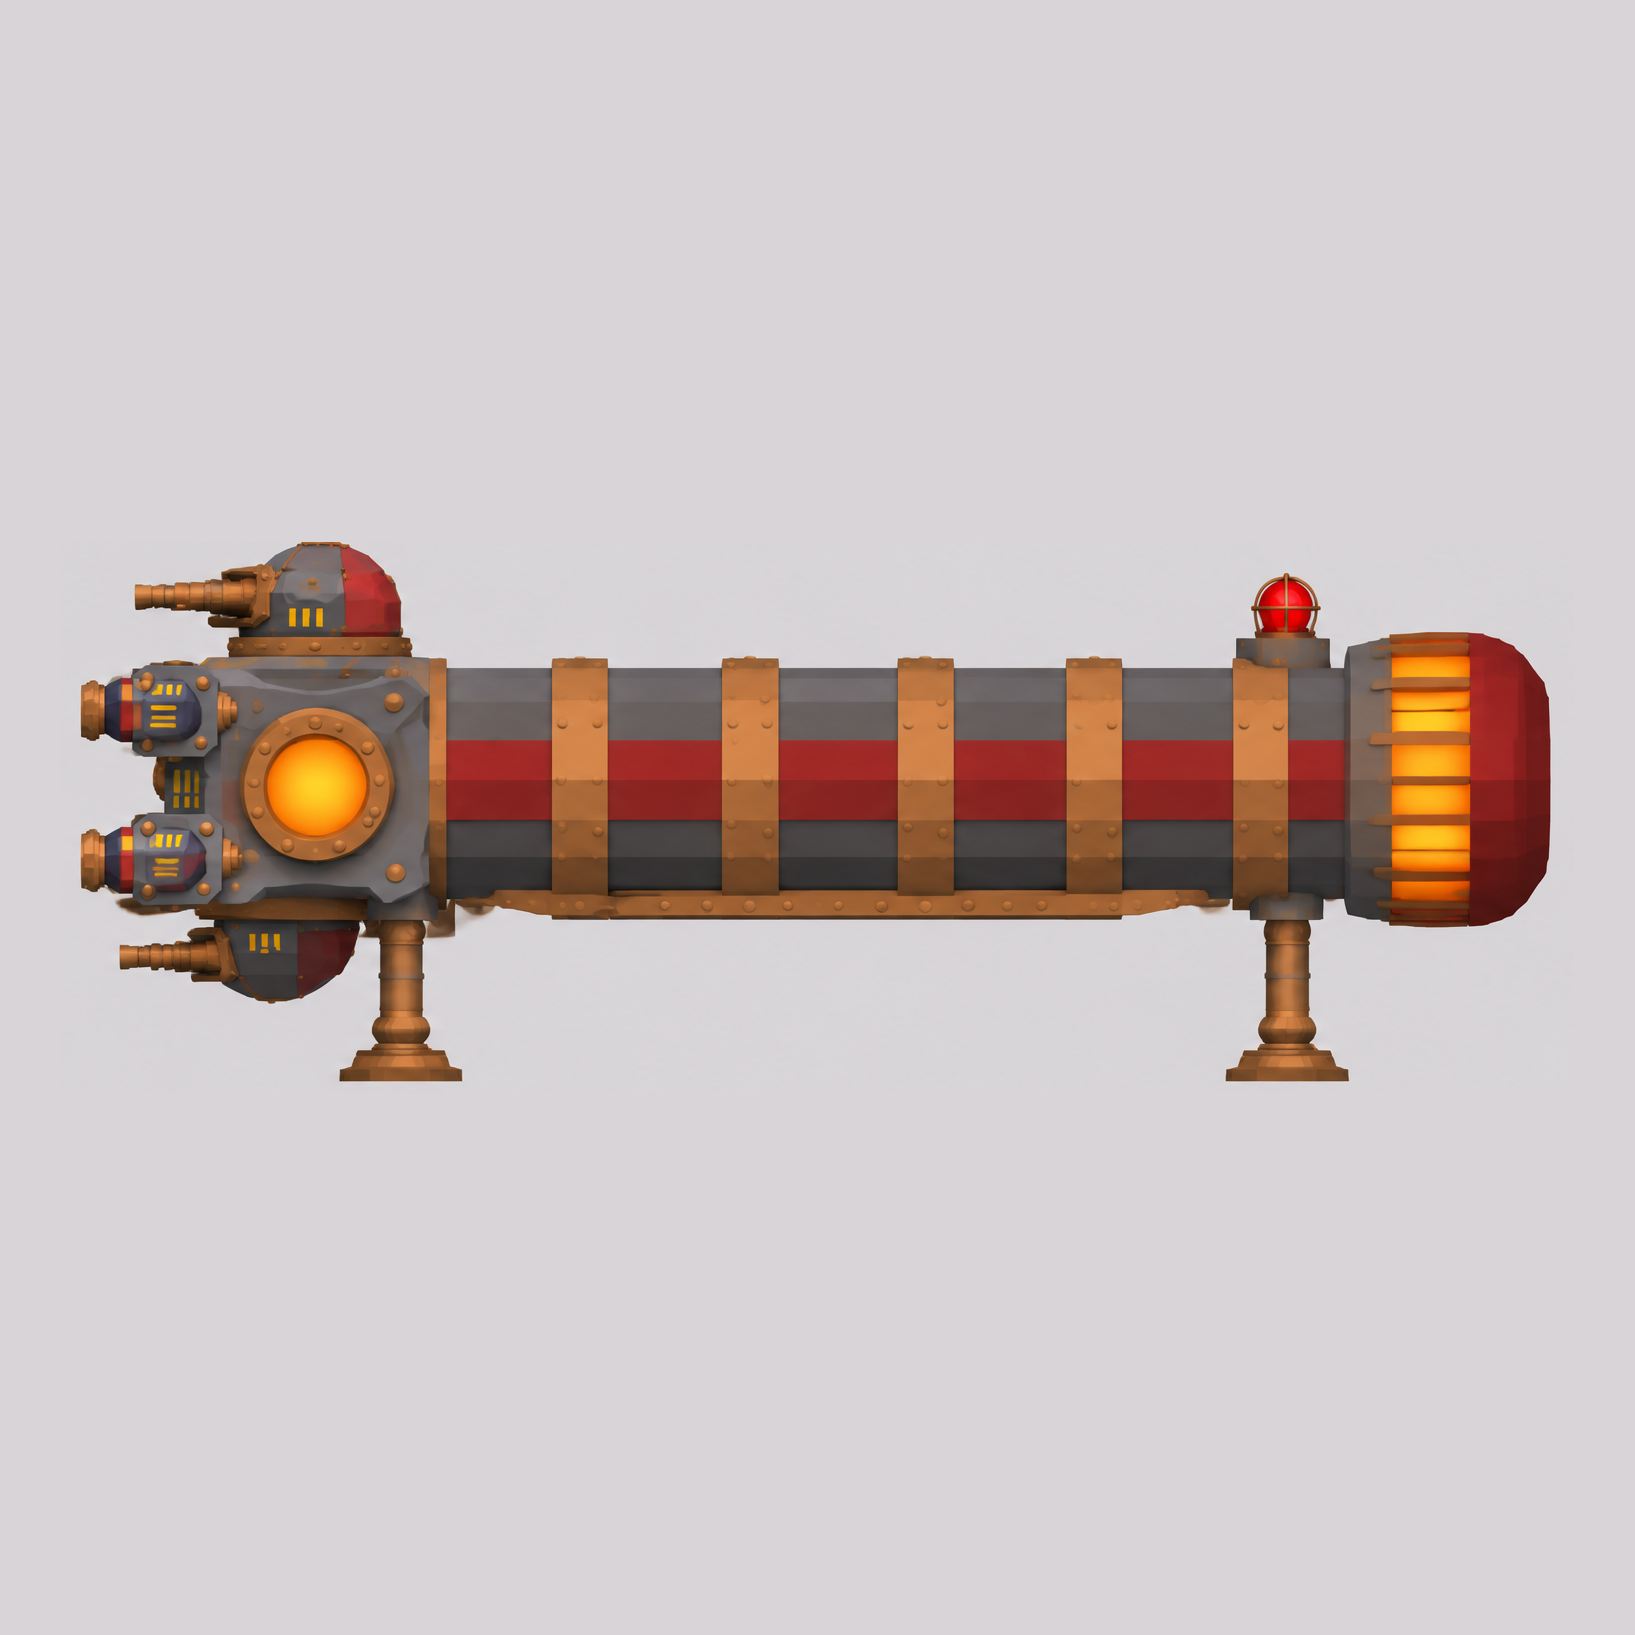
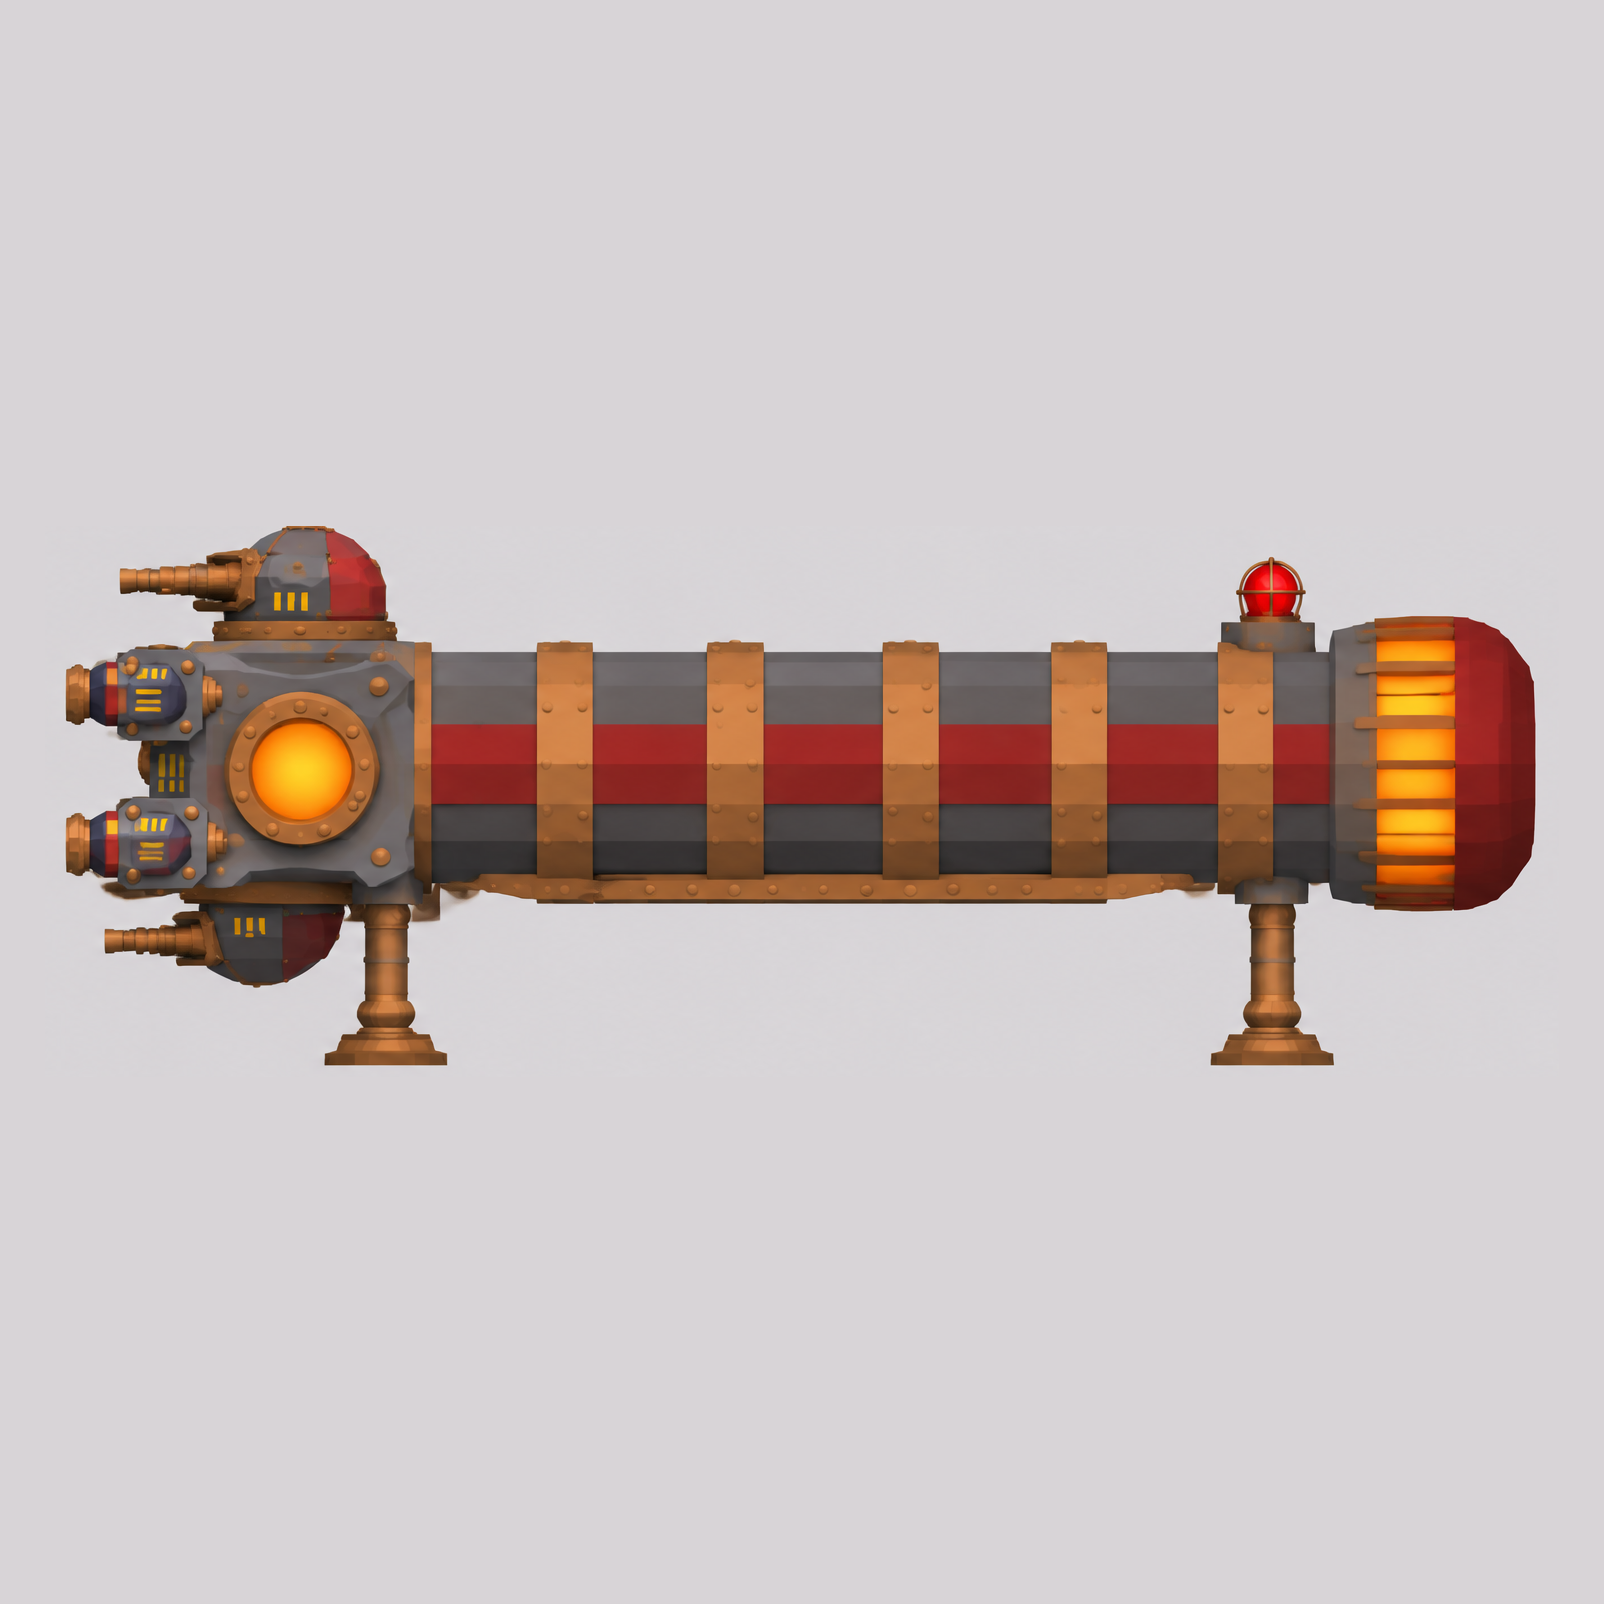
Cutter views: drop the back view (bell and legs disagree with the side), one shared scale
Claude-Session: https://claude.ai/code/session_018uw49rWsdZ1odu4C5nPD61

diff --git a/views/fv_hammerhead_cutter/README.md b/views/fv_hammerhead_cutter/README.md
@@ -6,9 +6,9 @@ From approved take B4 (round 136, OpenArt `8FGNzAFbdGQOl0k1IF0Z`) with the artic
 |---|---|
 | front.png | Front, the head face-on |
 | left.png | Left side, bow pointing left |
-| back.png | Back, the engine bell face-on |
 | right.png | Right side: the left view mirrored (the ship is symmetrical) |
 
-- The sheet's top view isn't used: its corner thrusters point sideways, while the front and side views point them forward.
+- The sheet's back view isn't used: its engine bell is drawn much bigger than in the side view, and it shows two stern legs where the side view has one. The top view isn't used either: its corner thrusters point sideways, while the front and side views point them forward.
 - The ramp is drawn closed. The thrusters are drawn pointing straight out; in game they're the separate articulating parts (round 142), so the build only needs their mounts' places.
 - Size: 45 m long, 18 m head, 7 m handle.
+- All three views are on canvases of one size, so they share a scale.
